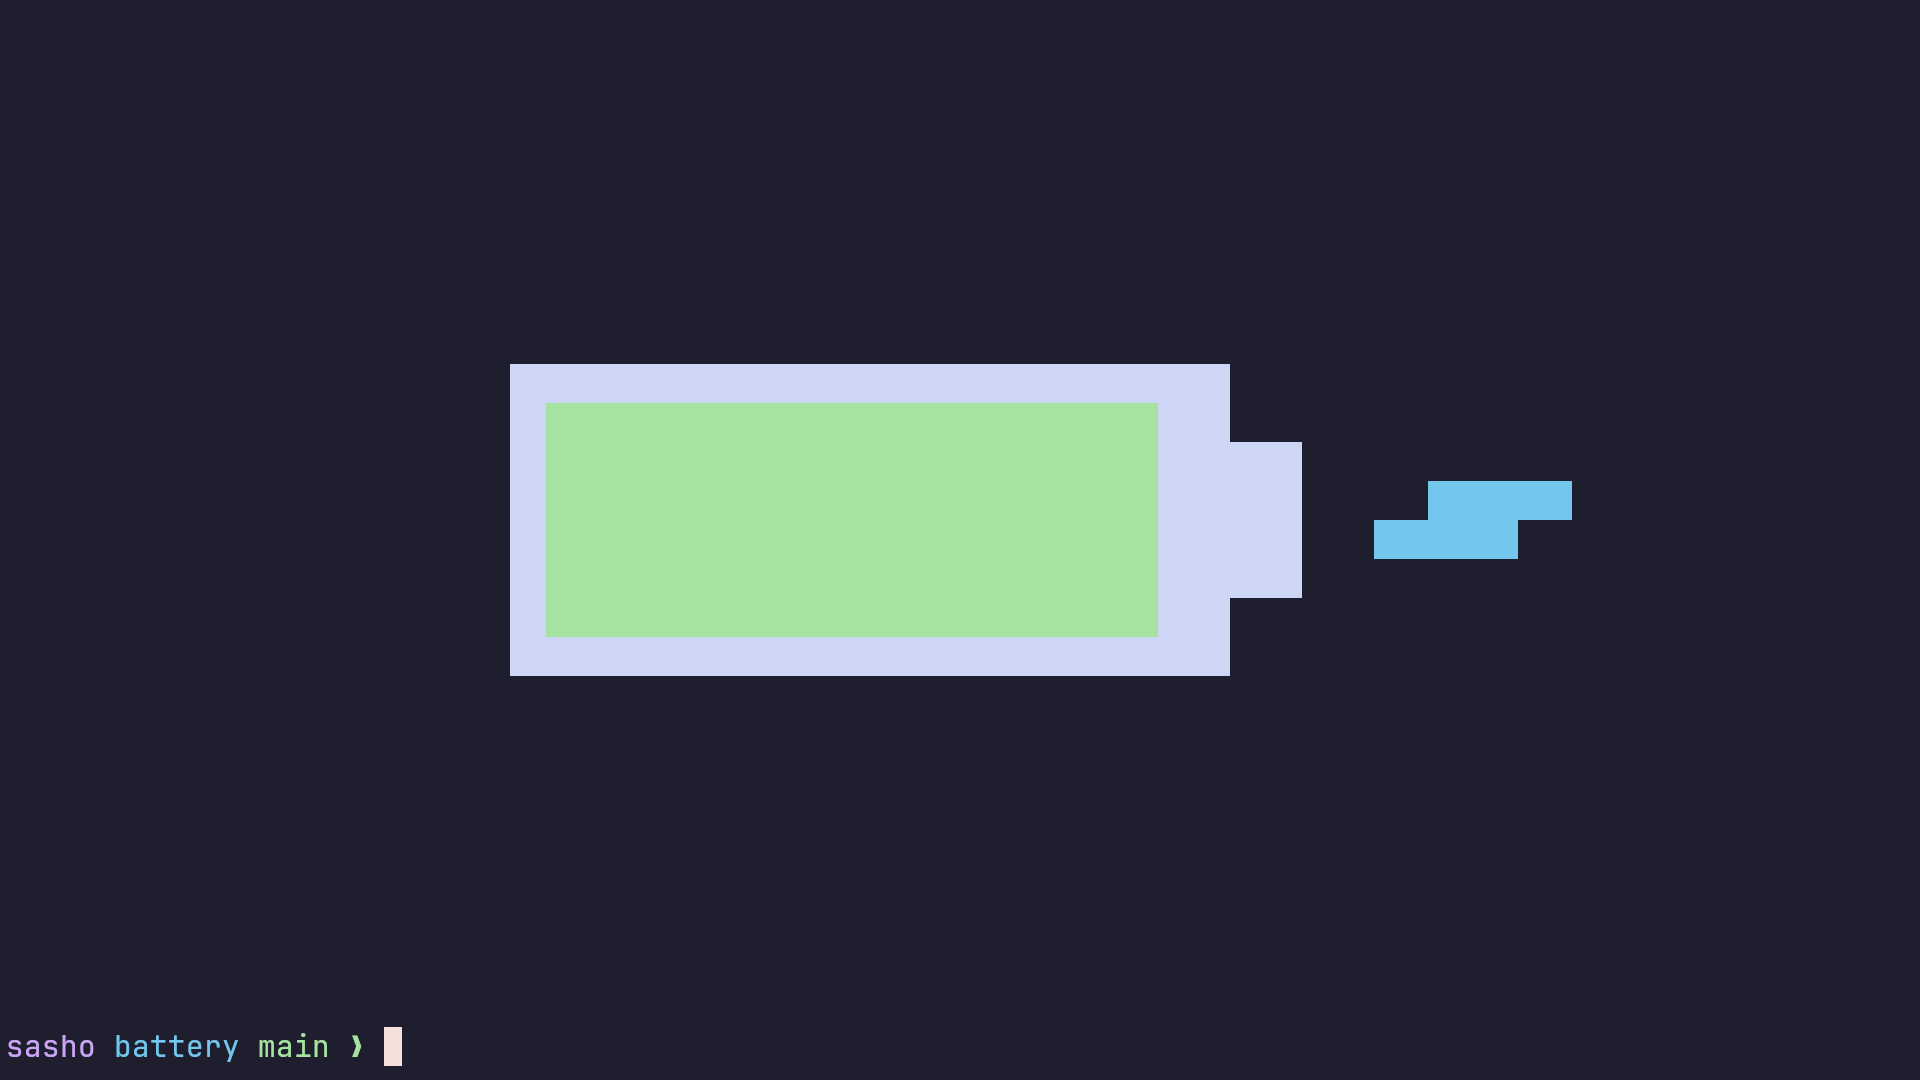
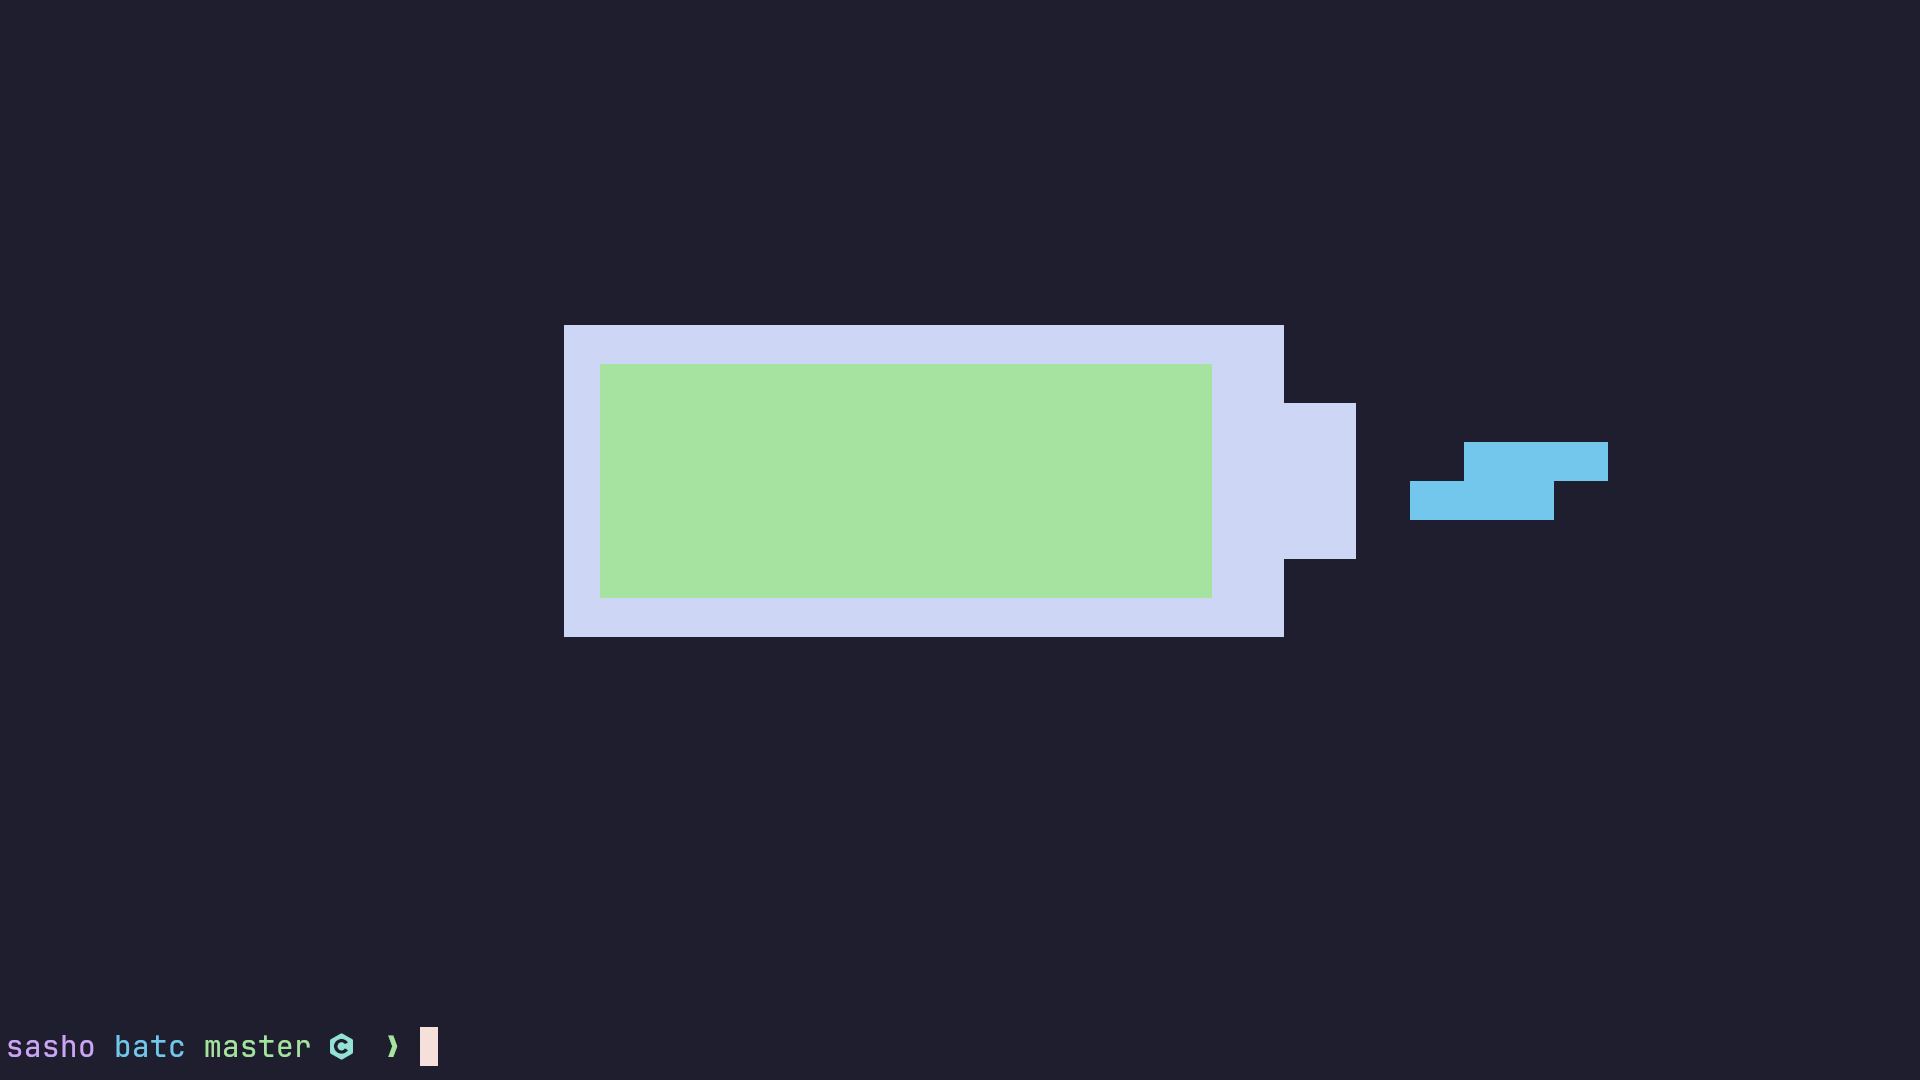
updated screenshots

Changed region(s): [[0.25, 0.275, 0.8438, 0.6417], [0.0938, 0.9472, 0.25, 1.0]]

diff --git a/README.md b/README.md
@@ -1,4 +1,4 @@
-# Battery
+# Batc
 
 ### Simple utility to monitor the battery in a stylish manner.
 
